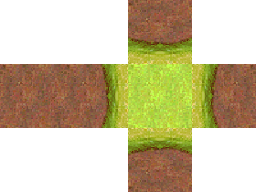
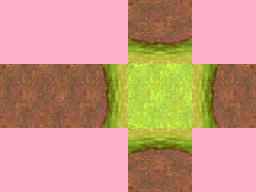
got grassy plains working!

diff --git a/minesim/model_instancer.py b/minesim/model_instancer.py
@@ -1,4 +1,5 @@
-from minesim.perspective_window import PerspectiveWindow
+from minesim.flight_controller import FlightController
+from minesim.glsl_window import MyPyQtSlot
 from PIL import Image
 from wavefront_reader import read_wavefront, read_objfile, read_mtlfile
 import struct
@@ -7,14 +8,9 @@ import minesim.biome_generators as biogen
 import numpy as np
 import os
 
-class Instancer(object):
-    def __init__(self, vao, num_instances, transforms):
-        self.transforms = transforms
-        self.num_instances = num_instances
-        self.vao = vao
-
-class ModelInstancer(PerspectiveWindow):
-    def __init__(self):
+class ModelViewer(FlightController):
+    def __init__(self, fragment_shader_file=FlightController.shader_fragment_textured,
+                 *args, **kw):
         '''self.meshes = []
         self.materials = []
         self.textures = []'''
@@ -24,48 +20,90 @@ class ModelInstancer(PerspectiveWindow):
 
         self.objs = dict()
 
-        super(ModelInstancer, self).__init__()
+        super(ModelViewer, self).__init__(fragment_shader_file=fragment_shader_file ,*args, **kw)
 
     def add_instance(self, filename, transformation_matrix):
         pass
 
-    def load_models(self, filename):
+    def load_model_file_into_cache(self, filename):
         obj = read_wavefront(filename)
         self.objs[filename] = obj
 
-        gl_mesh = bytes()
+        self.gl_mesh = bytes()
 
         for mesh in obj.object_list:
             self.texture_image_file = mesh.material.map_Kd
-
-            img = Image.open(os.path.join(os.path.dirname(filename), self.texture_image_file))
-            texture = self.ctx.texture(img.size, 4, img.tobytes())
-            texture.use()
+            self.img = Image.open(os.path.join(os.path.dirname(filename), self.texture_image_file))
 
             for f in mesh.faces:
-                for v in range(len(f.vertices)):
-                    gl_mesh += struct.pack('4f', *f.vertices[v], 1.0) # use 0.0 for skyboxes
-                    gl_mesh += struct.pack('2f', *f.vertex_textures[v])
+                for v in range(len(f.vertices)): #todo: add functions for modifying these verts
+                    self.gl_mesh += struct.pack('4f', *f.vertices[v], 1.0) # use 0.0 for skyboxes
+                    self.gl_mesh += struct.pack('2f', *f.vertex_textures[v])
 
-            vbo = self.ctx.buffer(gl_mesh)
-            vao = self.ctx.simple_vertex_array(self.prog, vbo, ['vertex'])  # texture_coord
-            trans_list = []
-            plains = biogen.plains_gen(20, 20, 20, 10, 15, turbulence=0.01)
-            for voxel in plains:
-                trans_list.append(mm.translate_mat(*voxel, np.float32))
+    def load_model_file_into_positions(self, filename, positions):
+        obj = read_wavefront(filename)
+        self.objs[filename] = obj
 
-            vao_instancer = Instancer(vao, len(trans_list), trans_list)
-            print("made")
-            #todo: use compute shader to set matrices initially
-            for x in range(len(trans_list)):
-                self.x_forms.extend(struct.pack('16f', *((vao_instancer.transforms[x]).flatten().tolist()[0])))
-                if x%200==0:
-                    print(x)
-            print("packed")
+        self.gl_mesh = bytearray()
 
-            if self.no_xforms==True:
-                self.ctx.buffer(self.x_forms).bind_to_storage_buffer(binding=2)
-                self.no_xforms =False
-            print("bound")
+        for mesh in obj.object_list:
+            self.texture_image_file = mesh.material.map_Kd
+            self.img = Image.open(os.path.join(os.path.dirname(filename), self.texture_image_file))
 
-            self.vao_instances[filename] = vao_instancer
+            for p in positions:  # todo: SPEED ISSUE! use a glsl cpu to get this quickly
+                for f in mesh.faces:
+                    for v in range(len(f.vertices)):  # todo: add functions for modifying these verts
+                        self.gl_mesh.extend(struct.pack('4f',
+                                                    p[0]*2 + f.vertices[v][0],
+                                                    p[1]*2 + f.vertices[v][1],
+                                                    p[2]*2 + f.vertices[v][2],
+                                                    1.0))  # use 0.0 for skyboxes
+                        self.gl_mesh.extend(struct.pack('2f', *f.vertex_textures[v]))
+
+    def setup_gl_objects(self):
+        self.setVBO(self.gl_mesh)
+        self.setVAO(('vert', 'texture_coord'))
+
+    @MyPyQtSlot("bool")
+    def initializeGL(self, *args, **kw):
+        self.setup_gl_objects()
+        super(ModelViewer, self).initializeGL(self, *args, **kw)
+
+        texture = self.ctx.texture(self.img.size, 4, self.img.tobytes())
+        texture.use()  # todo: instead, append this to the list of textures
+
+
+
+if __name__ == '__main__':
+    from PyQt5 import QtWidgets
+    import os
+    app = QtWidgets.QApplication([])
+    window = ModelViewer()
+    #window.load_model_file_into_cache(os.path.dirname(os.path.realpath(__file__))\
+    #                           + os.sep + 'blocks' + os.sep + 'cube.obj')
+
+    plains = biogen.plains_gen(500, 500, 100, 30, 50, turbulence=0.01).astype(np.bool_)
+    min_h = 0
+    max_h = 35
+    h = max_h - min_h
+    dissipation = 0.05
+    # us, but not them boolean operators to remove boolean arrays from other boolean arrays
+    # if I run into long strings of operators like these, consider moving back to glsl.
+    cave_caves = biogen.cloud_layer_gen(500, 500, h, 0.02, 0.0, 0) & ~biogen.cloud_layer_gen(500, 500, h, 0.1, 0.0, 0)
+    cave_caves = biogen.cloud_layer_gen(500, 500, h, 0.005, 0.0, dissipation) & ~cave_caves
+    plains[0:500, 0:500, min_h:max_h] = plains[0:500, 0:500, min_h:max_h] & ~cave_caves
+    visible_plains = biogen.restrict_visible(plains, plains, show_bounds=True)
+    visible_locations = biogen.get_locations(visible_plains)
+
+
+
+    window.load_model_file_into_positions(os.path.dirname(os.path.realpath(__file__))\
+                               + os.sep + 'blocks' + os.sep + 'cube.obj',
+                                          visible_locations)
+
+    window.move(QtWidgets.QDesktopWidget().rect().center() - window.rect().center())
+    window.show()
+
+    script_dir = os.path.dirname(__file__)
+
+    app.exec_()

diff --git a/minesim/perspective_window.py b/minesim/perspective_window.py
@@ -30,11 +30,20 @@ def MyPyQtSlot(*args):
 
     return slotdecorator
 
-class PerspectiveWindow(GLSLWindow):
 
-    def __init__(self):
-        super(PerspectiveWindow, self).__init__(vertex_shader_file = os.path.dirname(os.path.realpath(__file__))+os.sep+'shaders'+os.sep+'perspective_vertex.glsl',
-                                                fragment_shader_file = os.path.dirname(os.path.realpath(__file__))+os.sep+'shaders'+os.sep+'black_and_white_fragment.glsl',
+
+class PerspectiveWindow(GLSLWindow):
+    wireframe = False
+
+
+    def __init__(self,
+                 vertex_shader_file=GLSLWindow.shader_vertex_perspective,
+                 fragment_shader_file=GLSLWindow.shader_fragment_textured,
+                 uniform_dict=None,
+                 **kw
+                 ):
+        super(PerspectiveWindow, self).__init__(vertex_shader_file = vertex_shader_file,
+                                                fragment_shader_file = fragment_shader_file,
                                                 uniform_dict = None
         )
         self.vao = None
@@ -49,12 +58,13 @@ class PerspectiveWindow(GLSLWindow):
             new_vertex_shader_file=None,
             new_fragment_shader_file=None,
             new_uniform_dict = None)
+        self.ctx.enable(ModernGL.DEPTH_TEST)
 
         self.cam_quat = mm.Quaternion.from_axis(m.sqrt(2), m.sqrt(m.sqrt(2)),  m.sqrt(m.sqrt(2)), -m.pi / 4.0)
         self.cam_pos = np.array([3.0, 3.0, 3.0])
         self.ratio = self.width() / self.height()
         #self.fov_y = 1.10714872
-        self.fov_y = m.pi/2.5# todo: limit fov to w/in 1% of 90 deg, 180 deg at most
+        self.fov_y = m.pi/3# todo: limit fov to w/in 1% of 90 deg, 180 deg at most
         self.p_mat = mm.perspective_mat(z_near=0.1, z_far=1000.0,
                                         ratio=self.ratio,
                                         fov_y=self.fov_y)
@@ -80,6 +90,7 @@ class PerspectiveWindow(GLSLWindow):
         self.ctx.viewport = (0,0, self.width(), self.height())
         self.ctx.clear(1.0, 1.0, 1.0)
 
+
         self.p_mat = mm.perspective_mat(z_near=0.1, z_far=1000.0,
                                         ratio=self.ratio,
                                         fov_y=self.fov_y)
@@ -87,5 +98,9 @@ class PerspectiveWindow(GLSLWindow):
         self.model_view_perspective_matrix.value = \
             tuple(((self.stored_mview) * np.transpose(self.p_mat)).flatten().tolist()[0])
 
-        self.vao.render(ModernGL.LINES)
+        if self.wireframe:
+            self.vao.render(ModernGL.LINES)
+        else:
+            self.vao.render(ModernGL.TRIANGLES)
+
 

diff --git a/minesim/flight_controller.py b/minesim/flight_controller.py
@@ -21,7 +21,10 @@ from PyQt5 import QtCore
 from PyQt5.QtGui import QCursor
 
 class FlightController(UpdatingWindow, PerspectiveWindow):
-    def __init__(self, flight_keys = None, flight_speed = 1, *args, **kw):
+    def __init__(self, flight_keys = None, flight_speed = 1,
+                 vertex_shader_file=PerspectiveWindow.shader_vertex_perspective,
+                 fragment_shader_file=PerspectiveWindow.shader_fragment_black_and_white,
+                 *args, **kw):
         self.flight_keys = flight_keys
         if self.flight_keys == None:
             self.flight_keys = dict()
@@ -33,7 +36,9 @@ class FlightController(UpdatingWindow, PerspectiveWindow):
 
         self.flight_speed = flight_speed
 
-        super(FlightController, self).__init__()
+        super(FlightController, self).__init__(vertex_shader_file=vertex_shader_file,
+                                                fragment_shader_file=fragment_shader_file,
+                                               **kw)
 
         self.register_updaters(self.flight_update)
 
@@ -194,6 +199,7 @@ if __name__ == '__main__':
     from tests.data.perspectiveTesting import setupForTesting
     app = QtWidgets.QApplication([])
     window = FlightController()
+    window.wireframe = True
     setupForTesting(window)
     window.move(QtWidgets.QDesktopWidget().rect().center() - window.rect().center())
     window.show()

diff --git a/minesim/glsl_window.py b/minesim/glsl_window.py
@@ -28,6 +28,15 @@ def MyPyQtSlot(*args):
     return slotdecorator
 
 class GLSLWindow(QtOpenGL.QGLWidget):
+    shader_fragment_black_and_white = os.path.dirname(os.path.realpath(__file__))\
+                                      + os.sep + 'shaders' + os.sep + 'black_and_white_fragment.glsl'
+    shader_fragment_textured = os.path.dirname(os.path.realpath(__file__))\
+                               + os.sep + 'shaders' + os.sep + 'texture_fragment.glsl'
+
+    shader_vertex_perspective = os.path.dirname(os.path.realpath(__file__))\
+                               + os.sep + 'shaders' + os.sep + 'perspective_vertex.glsl'
+
+
     fmt = QtOpenGL.QGLFormat()
     fmt.setVersion(4,3)
     fmt.setProfile(QtOpenGL.QGLFormat.CoreProfile)

diff --git a/tests/test_perspective_window.py b/tests/test_perspective_window.py
@@ -7,7 +7,9 @@ class TestPerspectiveWindow(ut.TestCase):
     def testRuns(self):
         app = QtWidgets.QApplication([])
 
-        win = persp.PerspectiveWindow()
+        win = persp.PerspectiveWindow(vertex_shader_file=persp.GLSLWindow.shader_vertex_perspective,
+                 fragment_shader_file=persp.GLSLWindow.shader_fragment_black_and_white)
+        win.wireframe = True
         setupForTesting(win)
 
         win.move(QtWidgets.QDesktopWidget().rect().center() - win.rect().center())

diff --git a/minesim/updating_window.py b/minesim/updating_window.py
@@ -2,7 +2,7 @@ import minesim.glsl_window as glwin
 from PyQt5 import QtCore, QtOpenGL
 
 class UpdatingWindow(glwin.GLSLWindow):
-    def __init__(self, refresh_rate_ms = int(1000 / 60)):
+    def __init__(self, refresh_rate_ms = int(1000 / 60), **kw):
         self.restraining_mouse = True
         self.update_timer = QtCore.QTimer()
         self.update_timer.timeout.connect(self.update_event)

diff --git a/tests/data/perspectiveTesting.py b/tests/data/perspectiveTesting.py
@@ -3,8 +3,8 @@ import numpy as np
 grid = []
 
 for i in range(65):
-    grid.append([i - 32, -32.0, 0.0, i - 32, 32.0, 0.0])
-    grid.append([-32.0, i - 32, 0.0, 32.0, i - 32, 0.0])
+    grid.append([i - 32, -32.0, 0.0, 1.0, i - 32, 32.0, 0.0, 1.0])
+    grid.append([-32.0, i - 32, 0.0, 1.0, 32.0, i - 32, 0.0, 1.0])
 
 grid = np.array(grid)
 
